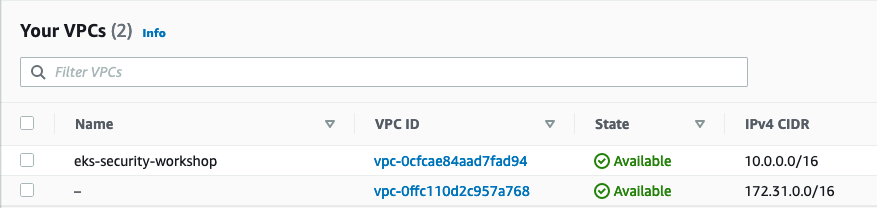
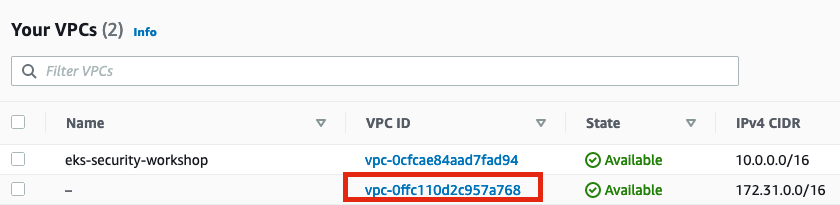
update lab9

diff --git a/docs/pt_BR/11-Lab9.md b/docs/pt_BR/11-Lab9.md
@@ -68,7 +68,7 @@ Obs: Para que possamos executar o job do kube-hunter precisamos adicionar um VPC
 
 Primeiro precisamos identificar qual nossa VPC Default Id: 
 
-Na console acesse VPC e na sessão your VPCs copie o ID da VPC que está em nome, na imagem abaixo é: vpc-0ffc110d2c957a768 
+Na console acesse VPC e na sessão your VPCs copie o ID da VPC que está sem nome, na imagem abaixo é: vpc-0ffc110d2c957a768 
 
 <p align="left"> 
 <img src="../static/11.6-kube-hunter6.png">
